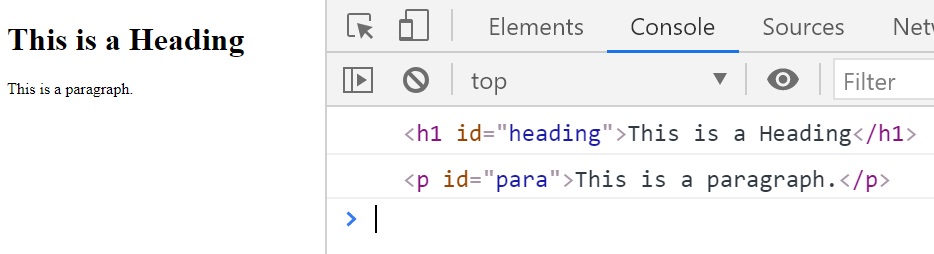
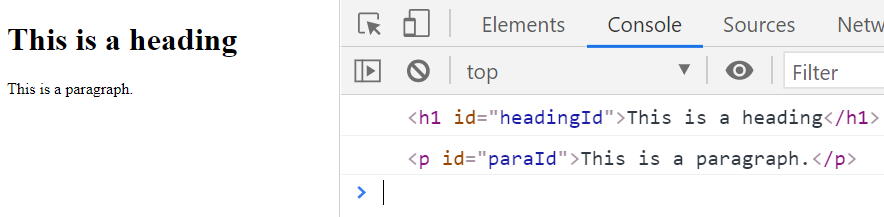
click events

diff --git a/html-interaction/click-events.html b/html-interaction/click-events.html
@@ -7,50 +7,64 @@
   <title>HACS</title>
   <script src="https://kit.fontawesome.com/5da9f5ff62.js" crossorigin="anonymous"></script>
 
-  <link rel="shortcut icon" type="image/png" href="../img/ainlay-logo-blue-white.png">
-  <link href="../css/home.css" rel="stylesheet" type="text/css" />
-  <link href="../css/page.css" rel="stylesheet" type="text/css" />
-  <link href="../css/prism.css" rel="stylesheet" type="text/css" />
+  <link rel="shortcut icon" type="image/png" href="/hacs/img/ainlay-logo-blue-white.png">
+  <link href="/hacs/css/home.css" rel="stylesheet" type="text/css" />
+  <link href="/hacs/css/page.css" rel="stylesheet" type="text/css" />
+  <link href="/hacs/css/prism.css" rel="stylesheet" type="text/css" />
 </head>
 
 <body>
   <nav></nav>
 
   <main>
-    <h1>Click Events</h1>
+    <a class="back-link" href="/hacs/js-reference.html">&lt; JS Reference</a>
+    <div class="title">
+      <h1>Click Events</h1>
+      <!-- <a href="#" id="yt-link" target="_blank">
+        <i class="fab fa-youtube fa-lg"></i>
+        Video Explanation
+      </a> -->
+    </div>
     <hr>
 
     <p>In JavaScript, code may be executed on demand by using <strong>Functions</strong> and <strong>Event
         Listeners</strong>.</p>
 
     <h2><i class="far fa-bookmark topic-heading"></i> Functions</h2>
-    <p>A function may be thought of as a named block of code.</p>
+    <p>A function is a named block of code.</p>
+    <p>The code stored inside of a function will not execute until the
+      function is invoked / called <em>(ie. told to do its job!)</em></p>
+    <p>To create a function we can use a <em>function declaration</em>:</p>
+
     <pre><code class="lang-js">
-// Define a function that stores code
+// Declare a function that stores code
 // The name of this function is greeting
 function greeting() {
   alert("Hello Functions");
   alert("I am inside of a function.");
 }
     </code></pre>
-    <p>The content of a function is the code between the opening and closing braces <code class="lang-js">{ }</code>.
-    </p>
-    <p>The code stored inside of a function will not execute until the
-      function is invoked / called <em>(ie. told to do its job!)</em></p>
 
+    <p>The <code class="lang-js">function</code> keyword goes first, then the name of the function followed by
+      parentheses. Finally the code of the function, <em>"the function body"</em>, goes between curly braces.</p>
     <p>The name of a function should represent the task of the function.</p>
     <p>Function names should follow the same rules and conventions as variable names.</p>
     <hr>
 
     <h2><i class="far fa-bookmark topic-heading"></i> Event Listeners</h2>
-    <p>Event listeners may be added to HTML elements. Event listeners will tell a specified function to do its job when
+    <p>Event listeners may be added to HTML elements.</p>
+    <p>Event listeners will tell a specified function to do its job when
       a certain event occurs.</p>
+    <div class="attention-box">
+      <h4>Event Listener Syntax</h4>
+      <pre><code class="lang-js">element.addEventListener("event", nameOfFunction);</code></pre>
+    </div>
 
     <h4>index.html</h4>
     <pre><code class="lang-html">
 &lt;body&gt;
-&lt;h1 id="heading"&gt;This is a Heading&lt;/h1&gt;
-&lt;p&gt;&lt;button id="btn"&gt;Click Me&lt;/button&gt;&lt;/p&gt;
+&lt;h1 id="headingId"&gt;This is a Heading&lt;/h1&gt;
+&lt;p&gt;&lt;button id="btnId"&gt;Click Me&lt;/button&gt;&lt;/p&gt;
 
 &lt;!-- Run External JavaScript File --&gt;
 &lt;script src="script.js"&gt;&lt;/script&gt;
@@ -58,7 +72,7 @@ function greeting() {
     </code></pre>
 
     <h4>script.js</h4>
-    <p>The code below will run the greeting function when any part of the web page is clicked.</p>
+    <p>The code below will run the greeting function, declared above, when any part of the web page is clicked.</p>
     <pre><code class="lang-js">
 // Run greeting function when document is clicked
 document.addEventListener("click", greeting);
@@ -66,7 +80,7 @@ document.addEventListener("click", greeting);
     <p>The code below will run the greeting function when the button element is clicked.</p>
     <pre><code class="lang-js">
 // Variable to store reference to button element
-let btnEl = document.getElementById("btn");
+let btnEl = document.getElementById("btnId");
 
 // Run greeting function when button is clicked 
 btnEl.addEventListener("click", greeting);
@@ -83,12 +97,12 @@ btnEl.addEventListener("click", greeting);
   </main>
 
   <!-- Load Nav -->
-  <script src="../js/load-nav.js"></script>
+  <script src="/hacs/js/load-nav.js"></script>
   <script>
-    loadFileIntoEl("../includes/nav.html", "nav");
+    loadFileIntoEl("/hacs/includes/nav-js-ref.html", "nav");
   </script>
 
-  <script src="../js/prism.js"></script>
+  <script src="/hacs/js/prism.js"></script>
 </body>
 
 </html>

diff --git a/html-interaction/getElementById.html b/html-interaction/getElementById.html
@@ -29,8 +29,8 @@
     <h4>index.html</h4>
     <pre><code class="lang-html">
 &lt;body&gt;
-&lt;h1 id="heading"&gt;This is a Heading&lt;/h1&gt;
-&lt;p id="para"&gt;This is a paragraph.&lt;/p&gt;
+&lt;h1 id="headingId"&gt;This is a Heading&lt;/h1&gt;
+&lt;p id="paraId"&gt;This is a paragraph.&lt;/p&gt;
 
 &lt;!-- Run External JavaScript File --&gt;
 &lt;script src="main.js"&gt;&lt;/script&gt;
@@ -40,8 +40,8 @@
     <h4>main.js</h4>
     <pre><code class="lang-js">
 // Variables to store reference to HTML Elements
-let headingEl = document.getElementById("heading");
-let paragraphEl = document.getElementById("para");
+let headingEl = document.getElementById("headingId");
+let paragraphEl = document.getElementById("paraId");
 
 // Log elements to console to verify
 console.log(headingEl);
